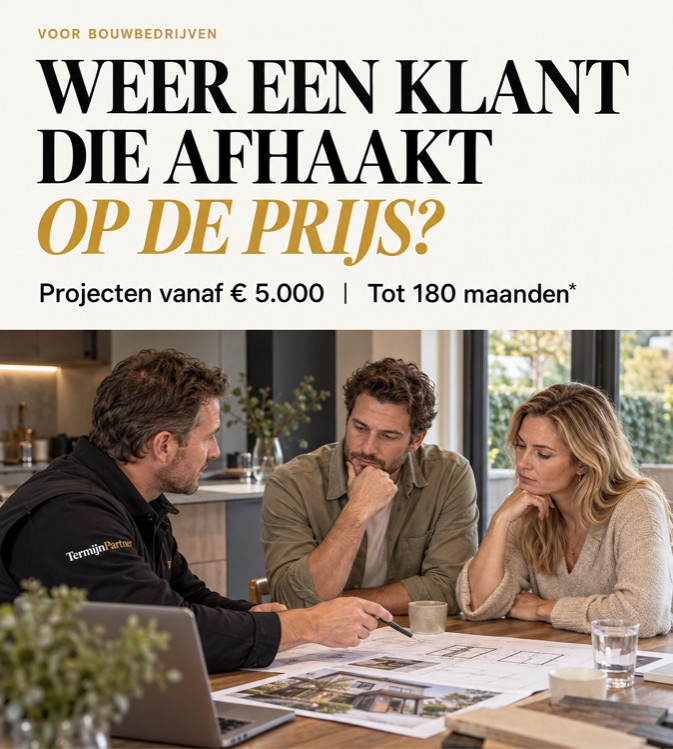
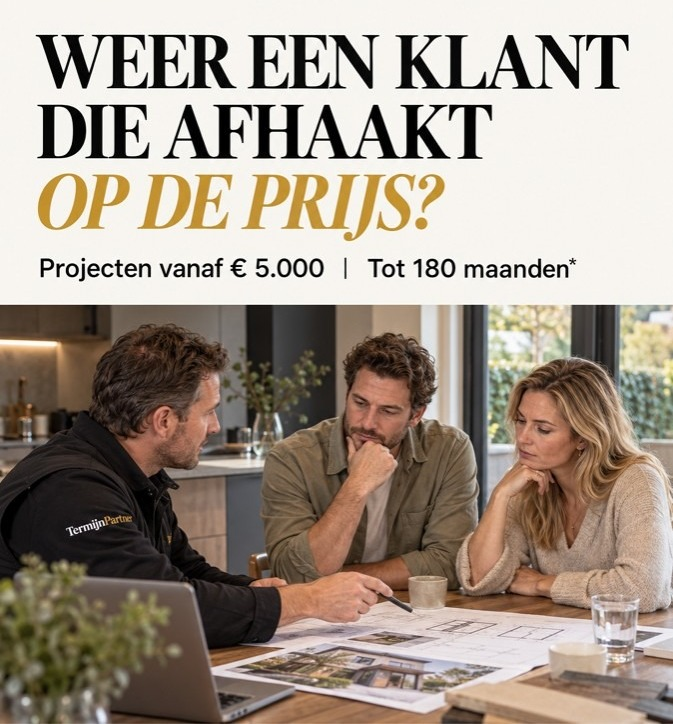
Homepage: remove 'Voor bouwbedrijven' from mission image

diff --git a/style.css b/style.css
@@ -291,7 +291,7 @@ h1 em, h2 em, .font-display em {
 
 /* Missie-foto bevat eigen tekst: hele afbeelding tonen, zonder grijsfilter. */
 .missie-photo {
-  aspect-ratio: 673 / 749;
+  aspect-ratio: 673 / 724;
   max-width: 480px;
   margin: 0 auto;
 }
